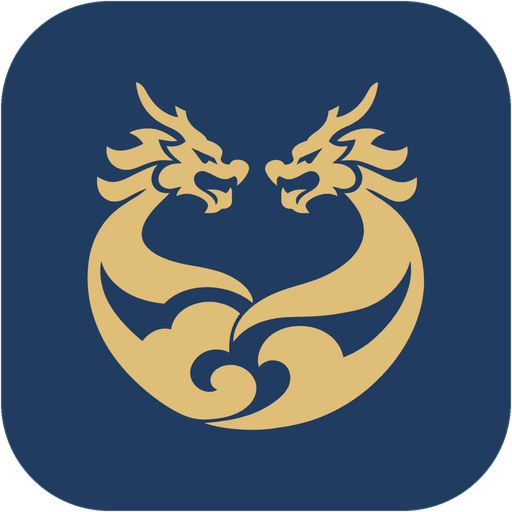
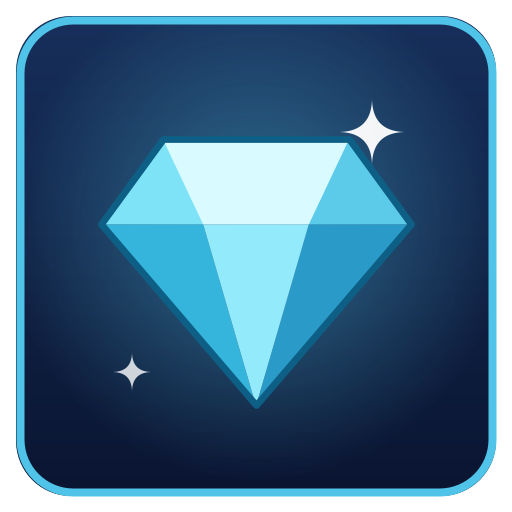
나니 다이아서버 런처: 쌍룡 런처 바탕으로 이름·주소·자동 빌드 설정·임시 아이콘·배경 교체

diff --git a/app/assets/js/processbuilder.js b/app/assets/js/processbuilder.js
@@ -372,7 +372,7 @@ class ProcessBuilder {
 
         // Java Arguments
         if(process.platform === 'darwin'){
-            args.push('-Xdock:name=Ssangyong')
+            args.push('-Xdock:name=NaniDiamond')
             args.push('-Xdock:icon=' + path.join(__dirname, '..', 'images', 'minecraft.icns'))
         }
         args.push('-Xmx' + ConfigManager.getMaxRAM(this.server.rawServer.id))
@@ -423,7 +423,7 @@ class ProcessBuilder {
 
         // Java Arguments
         if(process.platform === 'darwin'){
-            args.push('-Xdock:name=Ssangyong')
+            args.push('-Xdock:name=NaniDiamond')
             args.push('-Xdock:icon=' + path.join(__dirname, '..', 'images', 'minecraft.icns'))
         }
         args.push('-Xmx' + ConfigManager.getMaxRAM(this.server.rawServer.id))
@@ -525,7 +525,7 @@ class ProcessBuilder {
                             val = args[i].replace(argDiscovery, tempNativePath)
                             break
                         case 'launcher_name':
-                            val = args[i].replace(argDiscovery, 'Ssangyong-Launcher')
+                            val = args[i].replace(argDiscovery, 'NaniDiamond-Launcher')
                             break
                         case 'launcher_version':
                             val = args[i].replace(argDiscovery, this.launcherVersion)

diff --git a/app/assets/js/distromanager.js b/app/assets/js/distromanager.js
@@ -4,7 +4,7 @@ const ConfigManager = require('./configmanager')
 
 // Old WesterosCraft url.
 // exports.REMOTE_DISTRO_URL = 'http://mc.westeroscraft.com/WesterosCraftLauncher/distribution.json'
-exports.REMOTE_DISTRO_URL = 'https://raw.githubusercontent.com/zzunwoooo/chacademi_Result/refs/heads/claude/ssangyong-launcher-distro/distribution.json'
+exports.REMOTE_DISTRO_URL = 'https://raw.githubusercontent.com/zzunwoooo/chacademi_Result/refs/heads/claude/diamond-launcher-distro/distribution.json'
 
 const api = new DistributionAPI(
     ConfigManager.getLauncherDirectory(),

diff --git a/index.js b/index.js
@@ -59,7 +59,7 @@ ipcMain.on('autoUpdateAction', (event, arg, data) => {
             event.sender.send('autoUpdateNotification', 'ready')
             break
         case 'checkForUpdate':
-            // 쌍룡상사 런처: 자동 업데이트 없음
+            // 나니 다이아서버 런처: 자동 업데이트 없음
             event.sender.send('autoUpdateNotification', 'update-not-available')
             break
         case 'allowPrereleaseChange':

diff --git a/app/assets/js/configmanager.js b/app/assets/js/configmanager.js
@@ -7,7 +7,7 @@ const logger = LoggerUtil.getLogger('ConfigManager')
 
 const sysRoot = process.env.APPDATA || (process.platform == 'darwin' ? process.env.HOME + '/Library/Application Support' : process.env.HOME)
 
-const dataPath = path.join(sysRoot, '.ssangyong')
+const dataPath = path.join(sysRoot, '.nanidiamond')
 
 const launcherDir = require('@electron/remote').app.getPath('userData')
 
